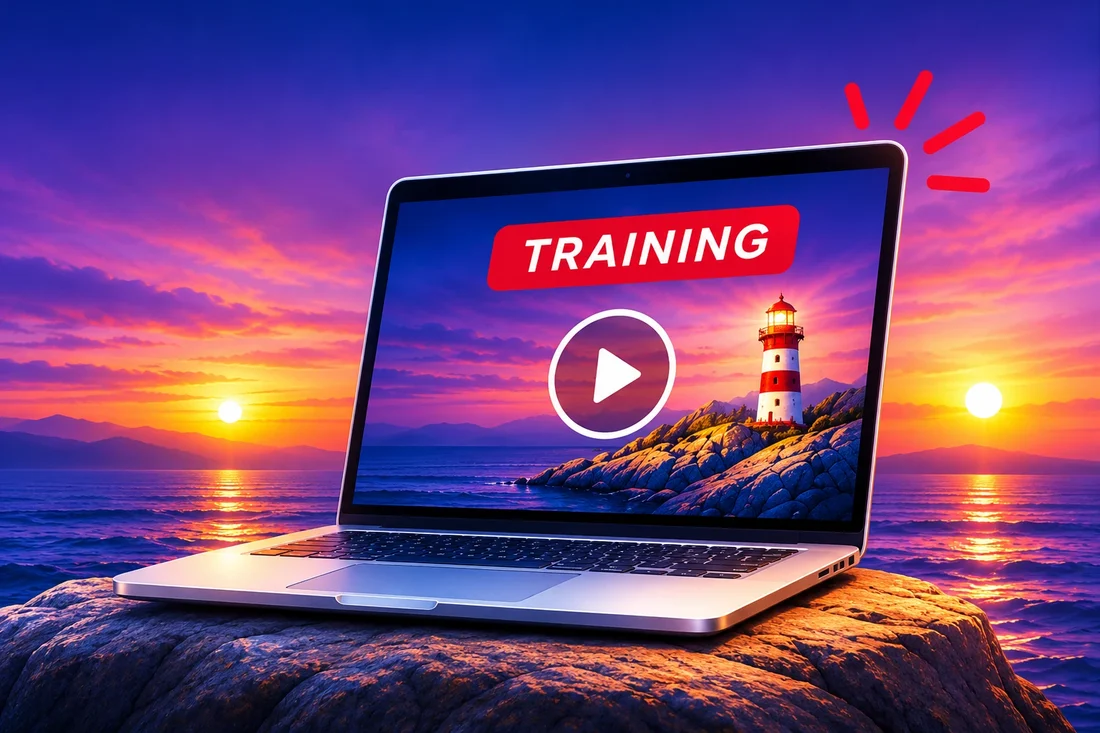
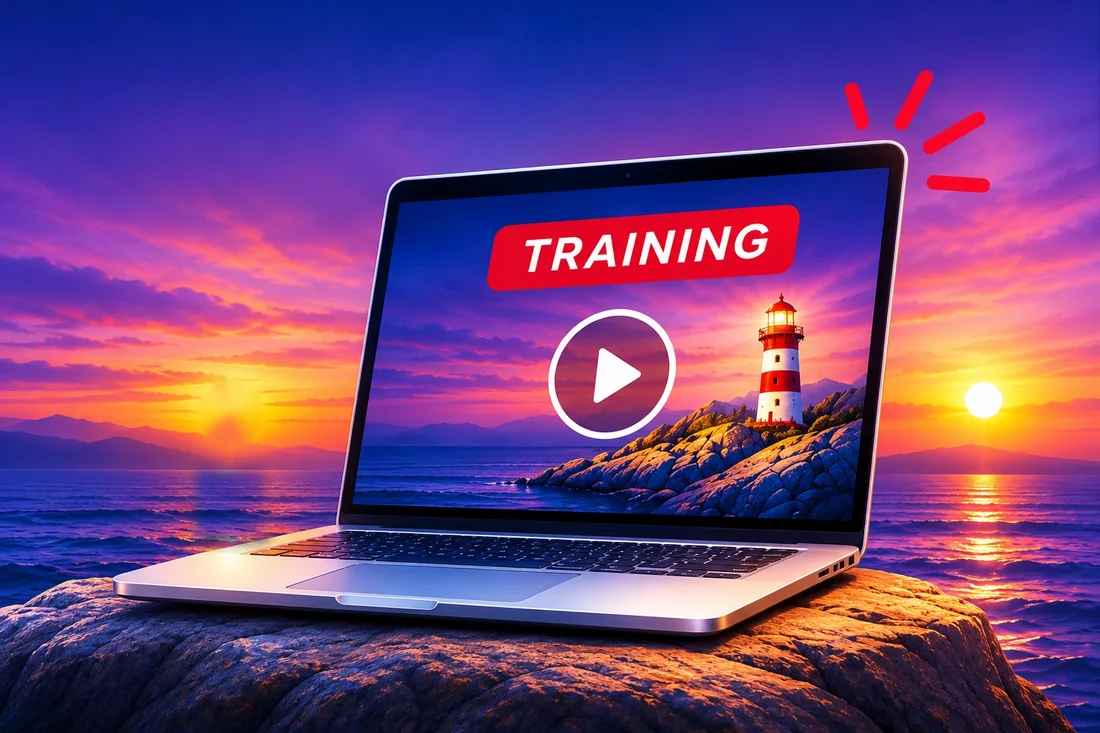
Links: card Training más pegada al texto y un solo sol
Claude-Session: https://claude.ai/code/session_01Jpn2k9DcpBCnuePGHMs4K7

Changed region(s): [[0.1545, 0.6303, 0.2473, 0.7503], [0.1855, 0.5102, 0.2473, 0.6003]]

diff --git a/links.html b/links.html
@@ -174,7 +174,7 @@ footer{margin-top:10px;text-align:center}
   .camino h2{font-size:22px;line-height:.98;margin-top:0}
   .ico{width:52px}
   .desc{font-size:min(12.5px,3.12vw);line-height:1.3;text-align:left;padding-left:64px;margin-right:0;white-space:normal}
-  .tr .media.m4{display:block;margin-top:2px}
+  .tr .media.m4{display:block;margin-top:-26px}.tr p{position:relative;z-index:1}
   .etiquetas{padding-left:64px;gap:5px;flex-wrap:nowrap}.et{font-size:10px;letter-spacing:.07em;padding:6px 8px;white-space:nowrap}
   .c1 .desc{margin-right:-8px;white-space:nowrap;margin-top:-6px}
   /* Centrado entre el final del texto (~293px) y el borde izquierdo del faro (~82% del ancho), en cualquier ancho */
